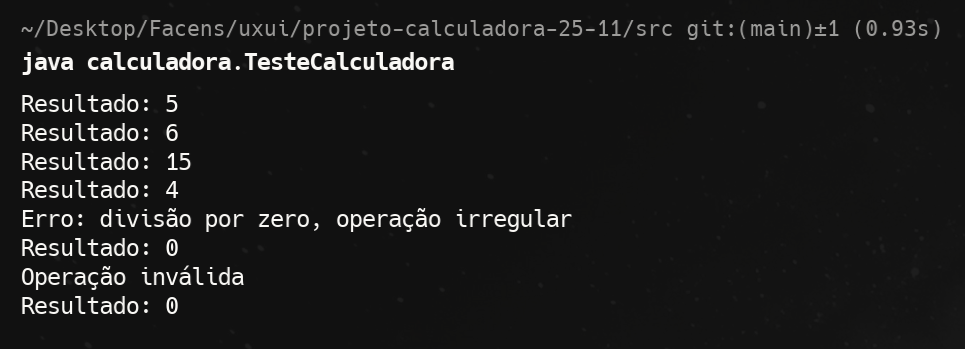
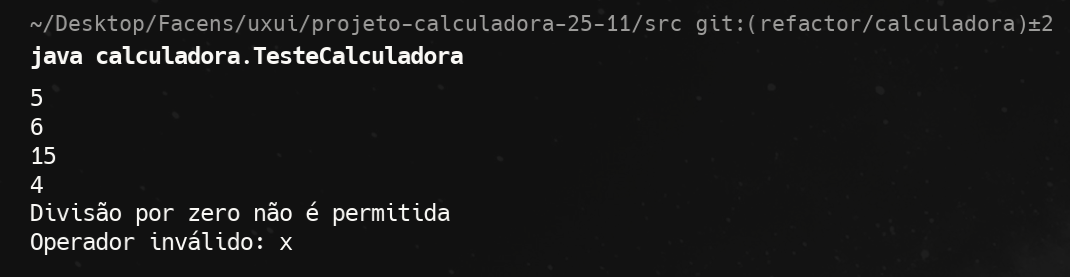
:recycle: refactor(calculadora): refactor Calculadora and tests

diff --git a/src/calculadora/Calculadora.java b/src/calculadora/Calculadora.java
@@ -1,27 +1,34 @@
 package calculadora;
 
 public class Calculadora {
-    public int r = 0;
 
-    public int calc(int a, int b, String op) {
-        if (op.equals("+")) {
-            r = a + b;
-        } else if (op.equals("-")) {
-            r = a - b;
-        } else if (op.equals("*")) {
-            r = a * b;
-        } else if (op.equals("/")) {
-            if (b != 0) {
-                r = a / b;
-            } else {
-                System.out.println("Erro: divisão por zero, operação irregular");
-                r = 0;
-            }
-        } else {
-            System.out.println("Operação inválida");
+    // métodos puros e simples
+    public int somar(int a, int b) {
+        return a + b;
+    }
+
+    public int subtrair(int a, int b) {
+        return a - b;
+    }
+
+    public int multiplicar(int a, int b) {
+        return a * b;
+    }
+
+    public int dividir(int a, int b) {
+        if (b == 0) {
+            throw new IllegalArgumentException("Divisão por zero não é permitida");
         }
+        return a / b;
+    }
 
-        System.out.println("Resultado: " + r);
-        return r;
+    public int calcular(int a, int b, String operador) {
+        return switch (operador) {
+            case "+" -> somar(a, b);
+            case "-" -> subtrair(a, b);
+            case "*" -> multiplicar(a, b);
+            case "/" -> dividir(a, b);
+            default -> throw new IllegalArgumentException("Operador inválido: " + operador);
+        };
     }
 }

diff --git a/src/calculadora/TesteCalculadora.java b/src/calculadora/TesteCalculadora.java
@@ -5,12 +5,21 @@ public class TesteCalculadora {
     public static void main(String[] args) {
         Calculadora calc = new Calculadora();
 
-        // Testes rápidos
-        calc.calc(2, 3, "+"); // esperado: 5
-        calc.calc(10, 4, "-"); // esperado: 6
-        calc.calc(3, 5, "*"); // esperado: 15
-        calc.calc(8, 2, "/"); // esperado: 4
-        calc.calc(8, 0, "/"); // esperado: divisão por zero
-        calc.calc(5, 5, "x"); // esperado: operação inválida
+        System.out.println(calc.calcular(2, 3, "+"));
+        System.out.println(calc.calcular(10, 4, "-"));
+        System.out.println(calc.calcular(3, 5, "*"));
+        System.out.println(calc.calcular(8, 2, "/"));
+
+        try {
+            System.out.println(calc.calcular(8, 0, "/")); // exceção
+        } catch (IllegalArgumentException e) {
+            System.out.println(e.getMessage());
+        }
+
+        try {
+            System.out.println(calc.calcular(5, 5, "x")); // exceção
+        } catch (IllegalArgumentException e) {
+            System.out.println(e.getMessage());
+        }
     }
 }
